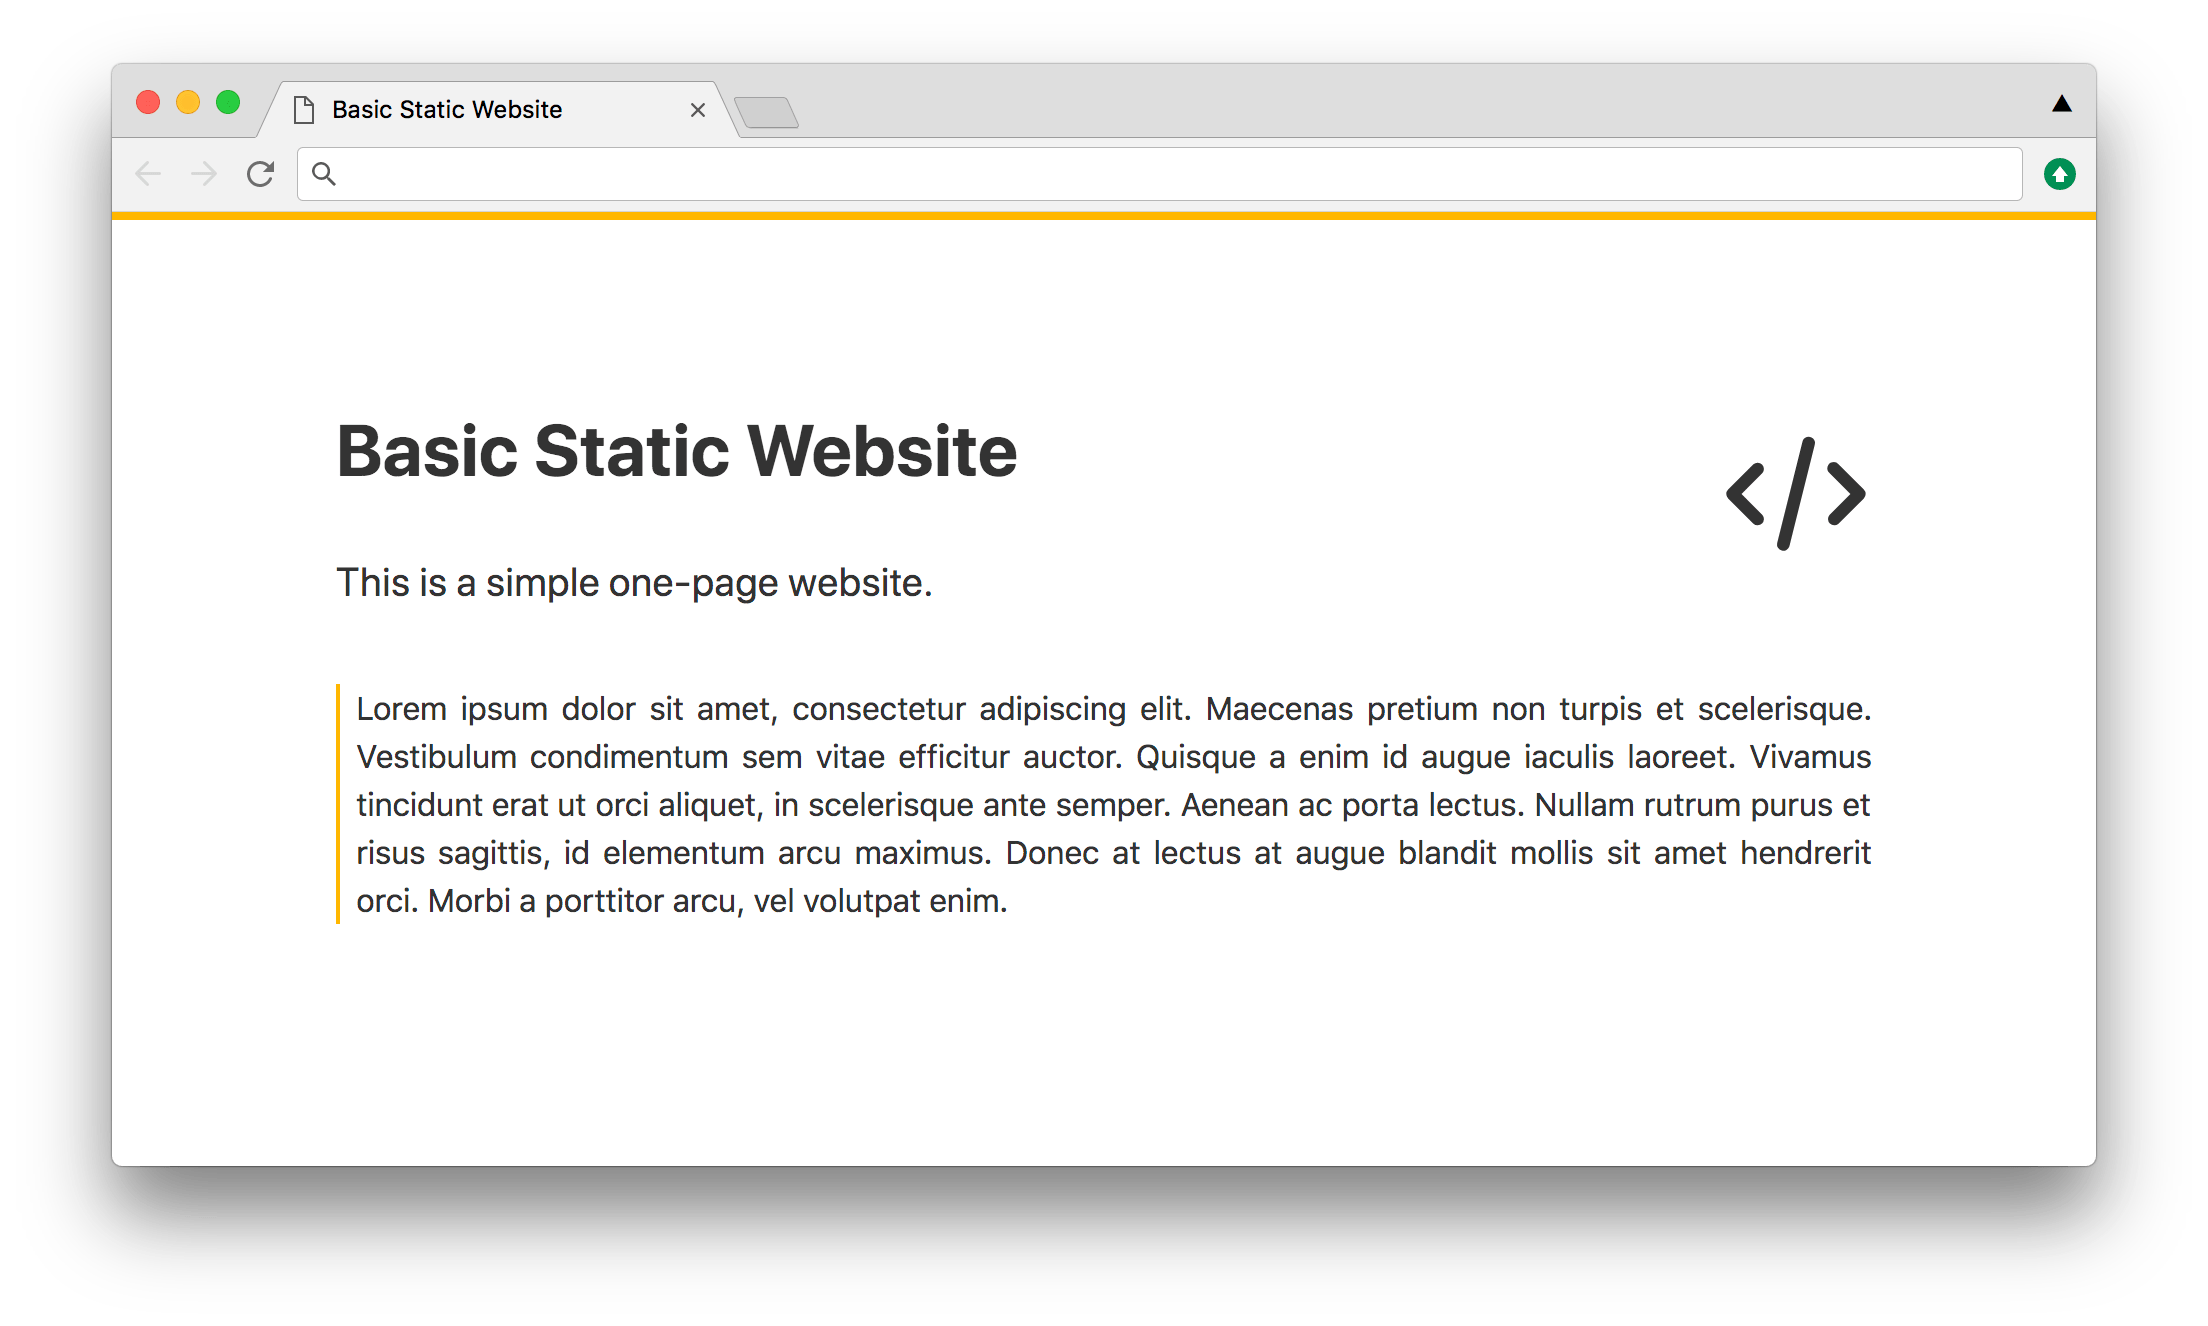
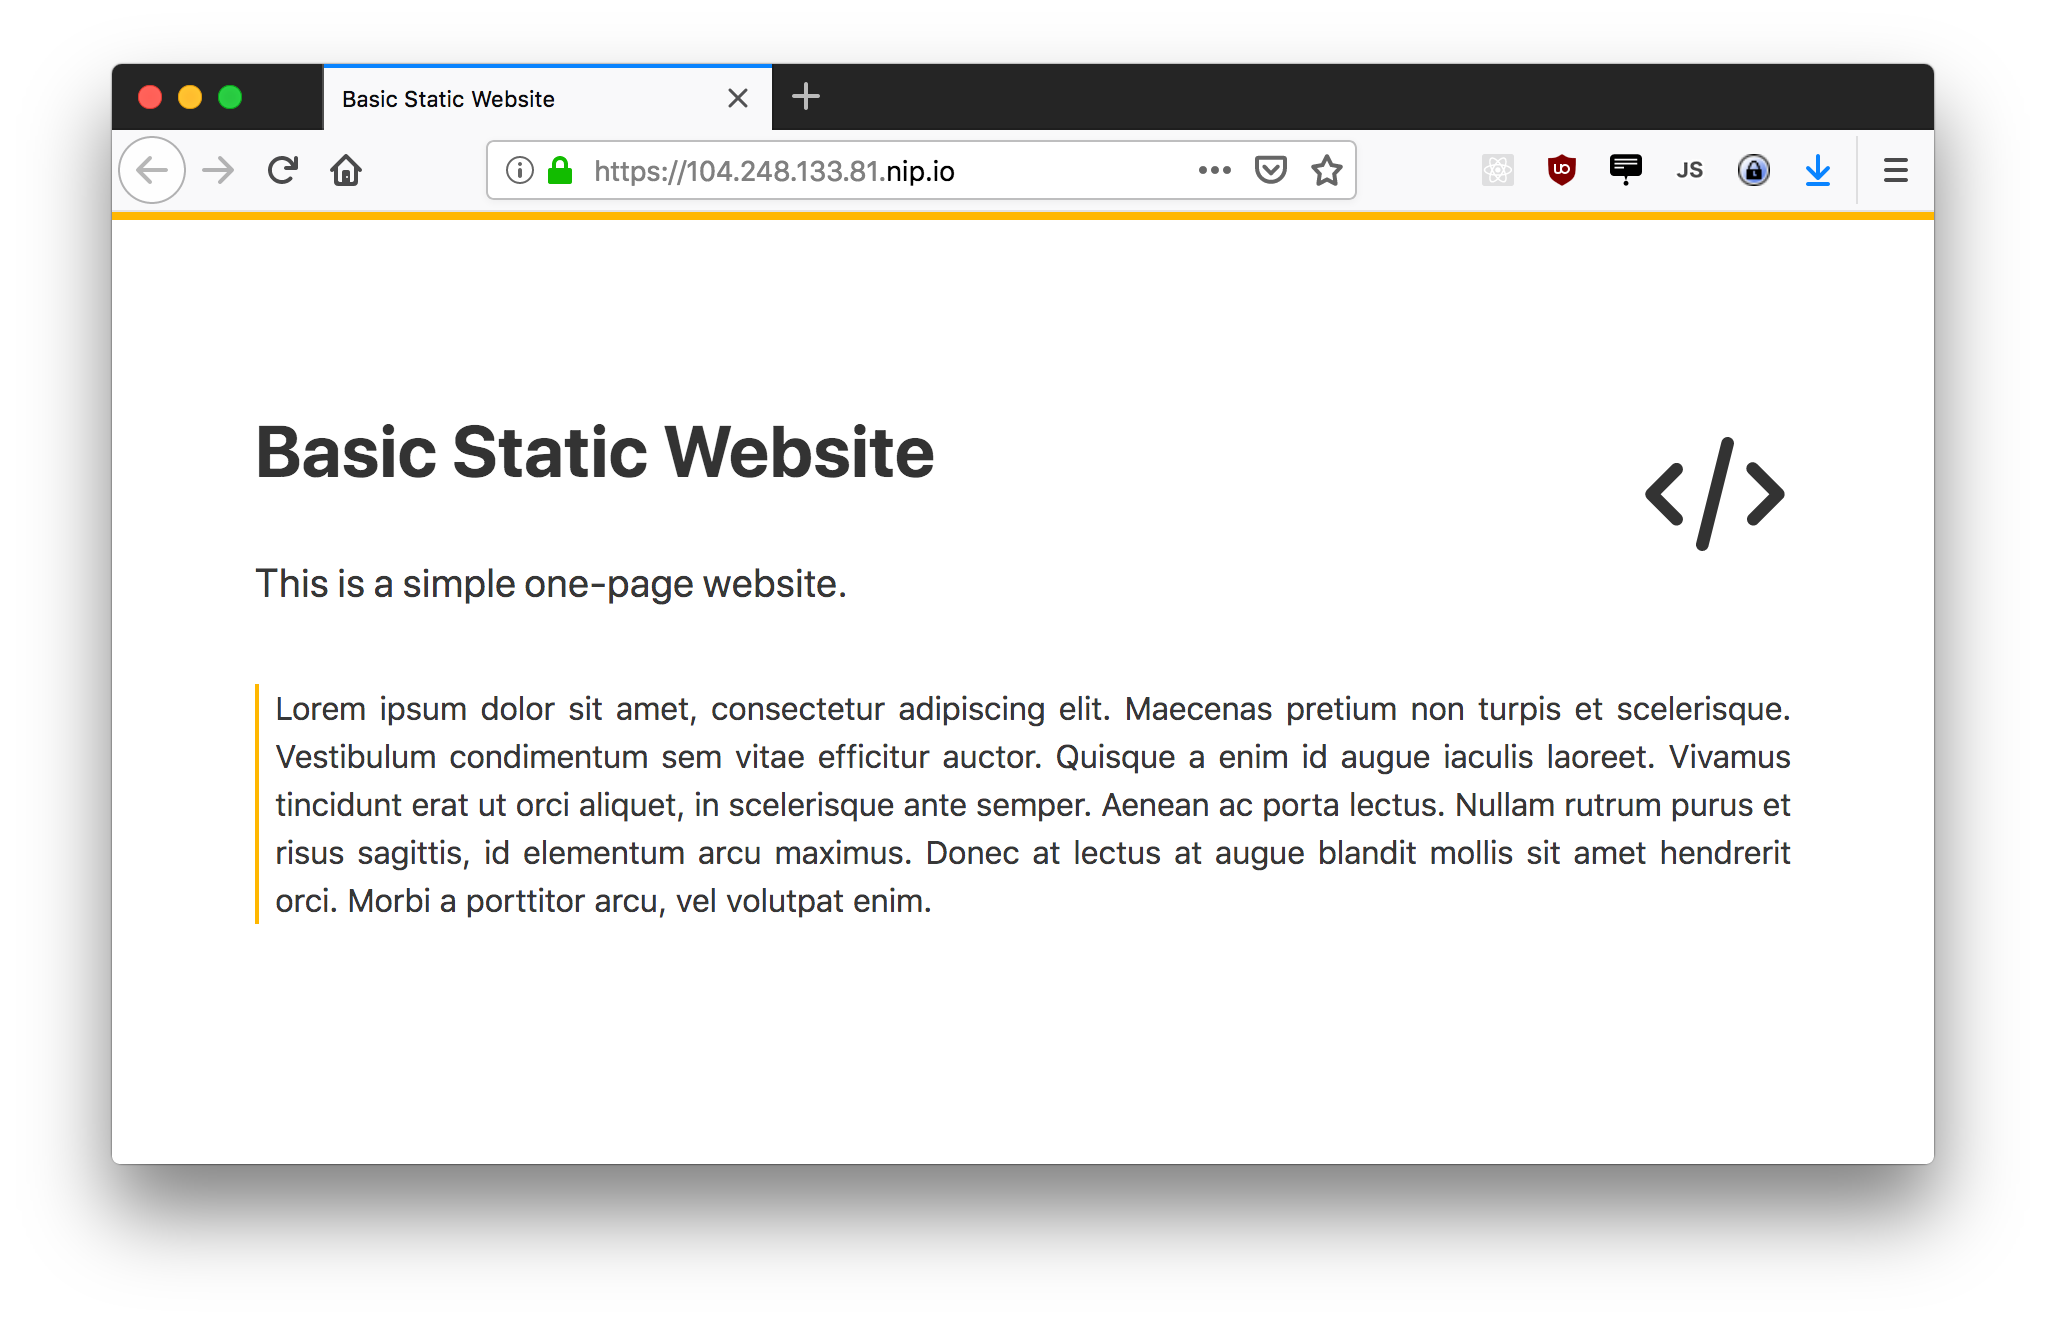
updated build big static websites draft

diff --git a/_drafts/build-and-deploy-huge-static-websites-with-caddy.md b/_drafts/build-and-deploy-huge-static-websites-with-caddy.md
@@ -6,18 +6,20 @@ categories: en
 tags: devops
 ---
 
-In this post, I will show you how to host a big static website (5000+ pages) on a server with Caddy.
+In this post, I will show you how to host a big static website (with thousands of pages) on a web server with Caddy.
 
 # Introduction
 
 ## First of all, don't do it!
 
 There are very few cases where it makes sense to use such a setup.
-Netlify is a great hosting provider for static websites, it is way simpler to setup, it will run your build scripts in no time, give you HTTPS out of the box, and CDN delivery.
-All that for free! So really, try with them first.
+Netlify, amongst others is a great hosting provider for static websites.
+It is way simpler to setup, it can run custom build scripts, it gives you HTTPS out of the box, and CDN delivery.
+All that for free!
+So really, try building your website there first.
 
 In some cases though, you may reach Netlify's limits.
-I for example experienced that building 20k+ pages prevents deploys from running through.
+I personally experienced failures on Netlify upon deploying a website with 20k+ pages.
 Even though building the pages itself takes 2 minutes or so, the deploys hang on the upload step.
 
 ## Why not host it on S3 ?
@@ -37,138 +39,242 @@ I'm not an AWS expert, but the whole process was so frustrating that I decided t
 
 # Server setup
 
-I chose to use Digital Ocean for hosting my server, but most of these instructions would be applicable to any other provider.
-Digital Ocean has very nice interfaces and great docs, I am personnaly never disappointed.
+I chose to use [Digital Ocean (aka DO)](https://www.digitalocean.com/) for hosting my server, but most of these instructions would be applicable to any other provider.
 
-This whole section is a 100% condensed copy-paste from this post on Digital Ocean's blog : [Deploying a Fully-automated Git-based Static Website in Under 5 Minutes](https://blog.digitalocean.com/deploying-a-fully-automated-git-based-static-website-in-under-5-minutes/).
+I have condensed the instructions from this post on DO's blog: [Deploying a Fully-automated Git-based Static Website in Under 5 Minutes](https://blog.digitalocean.com/deploying-a-fully-automated-git-based-static-website-in-under-5-minutes/) into a shell script: [https://gist.github.com/adipasquale/05e432157fcba07b0d2a8cbfdf326670](https://gist.github.com/adipasquale/05e432157fcba07b0d2a8cbfdf326670). If you're not familiar with this kind of setup, I suggest you follow the blog post instead of running the script.
 
-If you're not familiar with these type of setups, I suggest you follow the blog post rather than my super-fast summary.
+If you want to use my script, SSH as root into the newly created server and run it with:
 
-> &nbsp;
-> 1. follow [this DO guide](https://www.digitalocean.com/community/tutorials/initial-server-setup-with-ubuntu-16-04) to setup a secure Ubuntu 18.04 droplet, **but skip the firewall step**
-> 2. ssh into the server and install Caddy with these commands :
-> ```sh
-> # Download and extract Caddy :
-> wget -O caddy.tar.gz "https://caddyserver.com/download/linux/amd64?plugins=http.git&license=personal"
-> mkdir caddy
-> tar vxf caddy.tar.gz -C caddy
-> cd caddy
-> # install the binary :
-> sudo cp caddy /usr/local/bin
-> sudo chown root:root /usr/local/bin/caddy
-> sudo chmod 755 /usr/local/bin/caddy
-> # allow it to listen on protected ports :
-> sudo setcap 'cap_net_bind_service=+ep' /usr/local/bin/caddy
-> # create the configuration directories and set proper permissions :
-> sudo mkdir /etc/caddy
-> sudo chown -R root:www-data /etc/caddy
-> sudo mkdir /etc/ssl/caddy
-> sudo chown -R www-data:root /etc/ssl/caddy
-> sudo chmod 0770 /etc/ssl/caddy
-> # install the Systemd service file :
-> sudo cp init/linux-systemd/caddy.service /etc/systemd/system/
-> sudo chown root:root /etc/systemd/system/caddy.service
-> sudo chmod 644 /etc/systemd/system/caddy.service
-> sudo systemctl daemon-reload
-> ```
-> 3. Write a basic config file for Caddy :
-> ```apache
-> # /etc/caddy/Caddyfile
-> example.com {
->     tls you@example.com
->     internal /.git
->     gzip
->     redir 301 {
->         if {scheme} is http
->         /  https://{host}{uri}
->     }
->     git https://github.com/kamaln7/basic-static-website.git {
->         interval 300
->     }
-> }
-> ```
-> 4. start Caddy
-> ```
-> sudo systemctl start caddy
-> sudo systemctl enable caddy
-> ```
-> 4. If you own a domain name, you can add an DNS record of the A type that points to your droplet's IP, or follow [this short guide](https://www.digitalocean.com/docs/networking/dns/how-to/add-domains/) to use DigitalOcean's own name servers.
-> 5. Create a Firewall [here](https://cloud.digitalocean.com/networking/firewalls) and allow SSH, HTTP, and HTTPS inbound traffic
+```sh
+wget -O - https://gist.github.com/adipasquale/05e432157fcba07b0d2a8cbfdf326670/raw | sh
+```
 
-So if everything worked out so far, you should be able to access your website on your own domain, and see this :
+Here is a quick summary of this script:
+- It installs the Caddy server
+- It creates a systemd service
+- It sets up Caddy to listen to a subdomain of nip.io
+- Caddy will use Let's Encrypt to get you a valid SSL certificate so that HTTPS works out-of-the-box.
+- It uses the Caddy git plugin to automatically stay in sync with this repo: [kamaln7/basic-static-website](https://github.com/kamaln7/basic-static-website)
+
+The last output should point you to an URL that looks like https://YOUR_SERVER_IP.nip.io:
 
 ![basic static website](/images/basic-static-website.png)
 
-In case it does not work properly so far, you can run this command.
-It should allow you to see logs and exceptions from Caddy.
+*(notice the green lock :)*
+
+In case it does not work properly, you can run this command on the server to see logs and exceptions from Caddy:
 
 ```
 tail -f /var/log/syslog
 ```
 
-# Use a dynamic build system
+**Important Note**: We are skipping a lot of important steps for an actual production server here:
+- You should follow [this DO guide](https://www.digitalocean.com/community/tutorials/initial-server-setup-with-ubuntu-16-04) for securing your Ubuntu droplet
+- You should create a DO Firewall [here](https://cloud.digitalocean.com/networking/firewalls) and allow SSH, HTTP, and HTTPS inbound traffic
+- If you own a domain name, you can add an DNS record of the A type that points to your droplet's IP, or follow [this short guide](https://www.digitalocean.com/docs/networking/dns/how-to/add-domains/) to use DO's own name servers. Here, we are using nip.io to have a subdomain without any setup.
 
-We will now go through a series of changes in order to use a dynamic build system.
-This means that a script will be re-executed upon each git push to the repository.
-This script will build the HTML pages that will then be served as a static website.
+# Dynamic build system
 
-For the purpose of this article, I have created a very simple [Static Website Builder](https://github.com/adipasquale/huge-static-website-builder).
-It's a 50-lines Python3 script, that queries a [dummy API](https://jsonplaceholder.typicode.com/) for 5000 photos, and builds an HTML page for each, plus an index listing them.
+Currently, the server is synchronizing with a very simple static website project, that has no build script at all.
 
-![huge static website screencast](/images/huge-static-website-screencast.gif)
+We will now switch to a dynamic build system.
+The build script will create HTML pages from external data and template files, and the server will now serve the resulting files.
+This build script will be re-executed upon each git push to the repository.
 
-Let's go and deploy it on our server !
+For the purpose of this article, I have created a very simple static website builder: [giantsite](https://github.com/adipasquale/giantsite).
+It's a 50-lines Python 3 script, that queries a [dummy API](https://jsonplaceholder.typicode.com/) for 5000 photos, builds an HTML page for each and an index page that links to them.
 
-First, fork [huge-static-website-builder](https://github.com/adipasquale/huge-static-website-builder), go in Settings > Webhooks and create a new webhook with the `https://example.com/github_webhook` url. You can use the `uuidgen` CLI tool to generate a random secret :
+First, fork [giantsite](https://github.com/adipasquale/giantsite).
 
-![Create a GitHub Webhook](/images/github-webhook.png).
+Now let's update Caddy's configuration.
+SSH into the server and update it with `vim /etc/caddy/Caddyfile`:
 
-Don't worry, the webhook will fail upon creation, because we have not implemented yet.
-
-Let's now make a few changes in the Caddyfile configuration. SSH into the server and update the `/etc/caddy/Caddyfile` :
-
-```apache
+```
 # /etc/caddy/Caddyfile
-example.com {
-    tls you@example.com
-    internal /.git
-    gzip
-    redir 301 {
-        if {scheme} is http
-        /  https://{host}{uri}
-    }
-    git https://github.com/YOUR_GITHUB_HANDLE/huge-static-website-builder /var/code/huge-static-website-builder {
+
+https://YOUR_SERVER_IP.nip.io {
+    [...]
+    git https://github.com/YOUR_GITHUB_HANDLE/giantsite /var/code/giantsite {
         interval 300
-        hook /github_hook [YOUR_WEBHOOK_SECRET]
-        then python3 /var/code/huge-static-website-builder/build.py
+        then python3 /var/code/giantsite/build.py /var/www
     }
     root /var/www
 }
 ```
 
-Here is what we have changed :
+*(don't forget to replace the CAPITAL_PARTS with your infos)*
+
+Here is what we have changed:
 - We have switched the GitHub repository from the old static one to the new dynamically built one you just forked.
-- We have also specified where the GitHub repo should be fetched : `/var/code/huge-static-website-builder`
-- We have added a `hook` option in order to receive the push events from GitHub.
+- We have also specified where the local repository should be stored: `/var/code/giantsite`
 - We have added a call to the `build.py` script from the fetched repo in the `then` option.
 It will be ran upon each new pull.
 - Finally, we have declared that the server's root is `/var/www`.
-This means that the server will serve static files from there only.
+It defines the files that will be served.
 
 We still have to perform a few steps in order for this setup to work.
 Again, ssh into the server and run these commands
 
 ```sh
-sudo apt-get install python3 ?
+# Install python3 (it's already installed on DO's droplets)
+apt install python3
+
 # Create the new folders and set correct permissions
 mkdir /var/code/
 mkdir /var/www/
-sudo chown www-data:www-data /var/code/
-sudo chown www-data:www-data /var/www/
-# Restart Caddy
-sudo systemctl start caddy
+chown www-data:www-data /var/code/
+chown www-data:www-data /var/www/
+
+# Restart Caddy, this will trigger a re-build
+systemctl restart caddy
 ```
 
-You should now be able to access
+*Note : You may have to use `sudo` here if you're not logged in as root*
 
-# Extra : API to trigger rebuilds
+You should now be able to access your website and see the newly built website :
+
+![giantsite screencast](/images/giantsite-screencast.gif)
+
+
+## Auto-deploys on push
+
+Currently, our Caddy server will synchronize with the GitHub repository every 300 seconds or so.
+Let's setup a Webhook from GitHub to our server, so that it synchronizes and rebuilds upon each push.
+
+First, open a terminal and copy the output from `uuidgen`.
+We'll use this random string as a shared secret in our Webhook.
+
+Now let's setup Caddy so it listens to the Webhook.
+SSH into the server, and run `vim /etc/caddy/Caddyfile` :
+
+```sh
+# /etc/caddy/Caddyfile
+
+https://YOUR_SERVER_IP.nip.io {
+    [...]
+    git [...] {
+        [...]
+        hook /github_hook YOUR_WEBHOOK_SECRET
+    }
+}
+```
+
+and again, restart Caddy with :
+
+```sh
+systemctl restart caddy
+```
+
+The last step is to go to your forked GitHub repository's Settings, and click Create on the Webhooks tab.
+Use `https://YOUR_SERVER_IP.nip.io/github_webhook` for the url.
+
+![Create a GitHub Webhook](/images/github-webhook.png).
+
+*I suggest using a JSON webhook, I've had issues with the regular ones.*
+
+You can now try making a small change to the `build.py` script and pushing it.
+Your Caddy server should pick it up within a few seconds, and rebuild the pages accordingly.
+
+# Bonus: API to manually trigger re-builds
+
+If your external data is updated, you may want to trigger a build even though the code has not changed.
+It can therefore be useful to have another webhook that triggers rebuilds and is not linked to GitHub.
+
+Let's setup a small server that listens to GET requests on `/admin/rebuild` and triggers builds.
+I'm using [bottle](https://bottlepy.org/docs/dev/) here, as it's the simplest one I can think of, but feel free to use any framework you like.
+
+Create a new `server.py` file at the root of your forked repository :
+```py
+# server.py
+
+from build import Builder
+from bottle import route, run
+
+
+@route('/admin/rebuild')
+def rebuild():
+    Builder("/var/www").build()
+    return 'Rebuild done !'
+
+run(host='localhost', port=8000, debug=True)
+```
+
+Commit it and push it so that your server picks it up.
+
+Now, SSH into your server and install bottle:
+
+```sh
+apt update
+apt install python3-pip
+pip3 install bottle
+```
+
+You need to create another systemd service for this bottle server:
+
+```sh
+# /etc/systemd/system/bottle.service
+
+[Unit]
+Description=Bottle server
+After=syslog.target
+
+[Service]
+Type=simple
+User=www-data
+Group=www-data
+WorkingDirectory=/var/code/giantsite
+ExecStart=/usr/bin/env python3 server.py
+StandardOutput=syslog
+StandardError=syslog
+Restart=always
+RestartSec=2
+
+[Install]
+WantedBy=bottle.target
+```
+
+This new service can be started with:
+
+```sh
+systemctl start bottle
+systemctl enable bottle
+```
+
+And we also have to update the Caddyfile so that external requests are directed to this bottle server:
+
+```sh
+# /etc/caddy/Caddyfile
+
+https://YOUR_SERVER_IP.nip.io {
+    [...]
+    proxy /admin localhost:8000 {
+        transparent
+    }
+}
+```
+
+*Note: I used a namespaced route `/admin` here but you're free to do as you please. Be careful that it matches what bottle expects though.*
+
+Finally, restart Caddy so that the changes are applied:
+
+```sh
+systemctl restart caddy
+```
+
+Phew! You should now be able to trigger a rebuild with a simple:
+
+```sh
+curl https://YOUR_SERVER_IP.nip.io/admin/rebuild
+```
+
+🛠 Build, Build, Build 🛠
+
+# Conclusion
+
+This setup makes sense only in rare situations, namely when you are building thousands of files.
+It's an interesting experience though, as it shows how easy and convenient Caddy makes it.
+The [git plugin](https://caddyserver.com/docs/http.git) is particularly cool, it's so nice to be able to deploy with a simple `git push`.
+
+This setup is not ready for production, make sure to add some security measures! The rebuild API is completely unprotected for instance.
+
+Let me know what you think!
